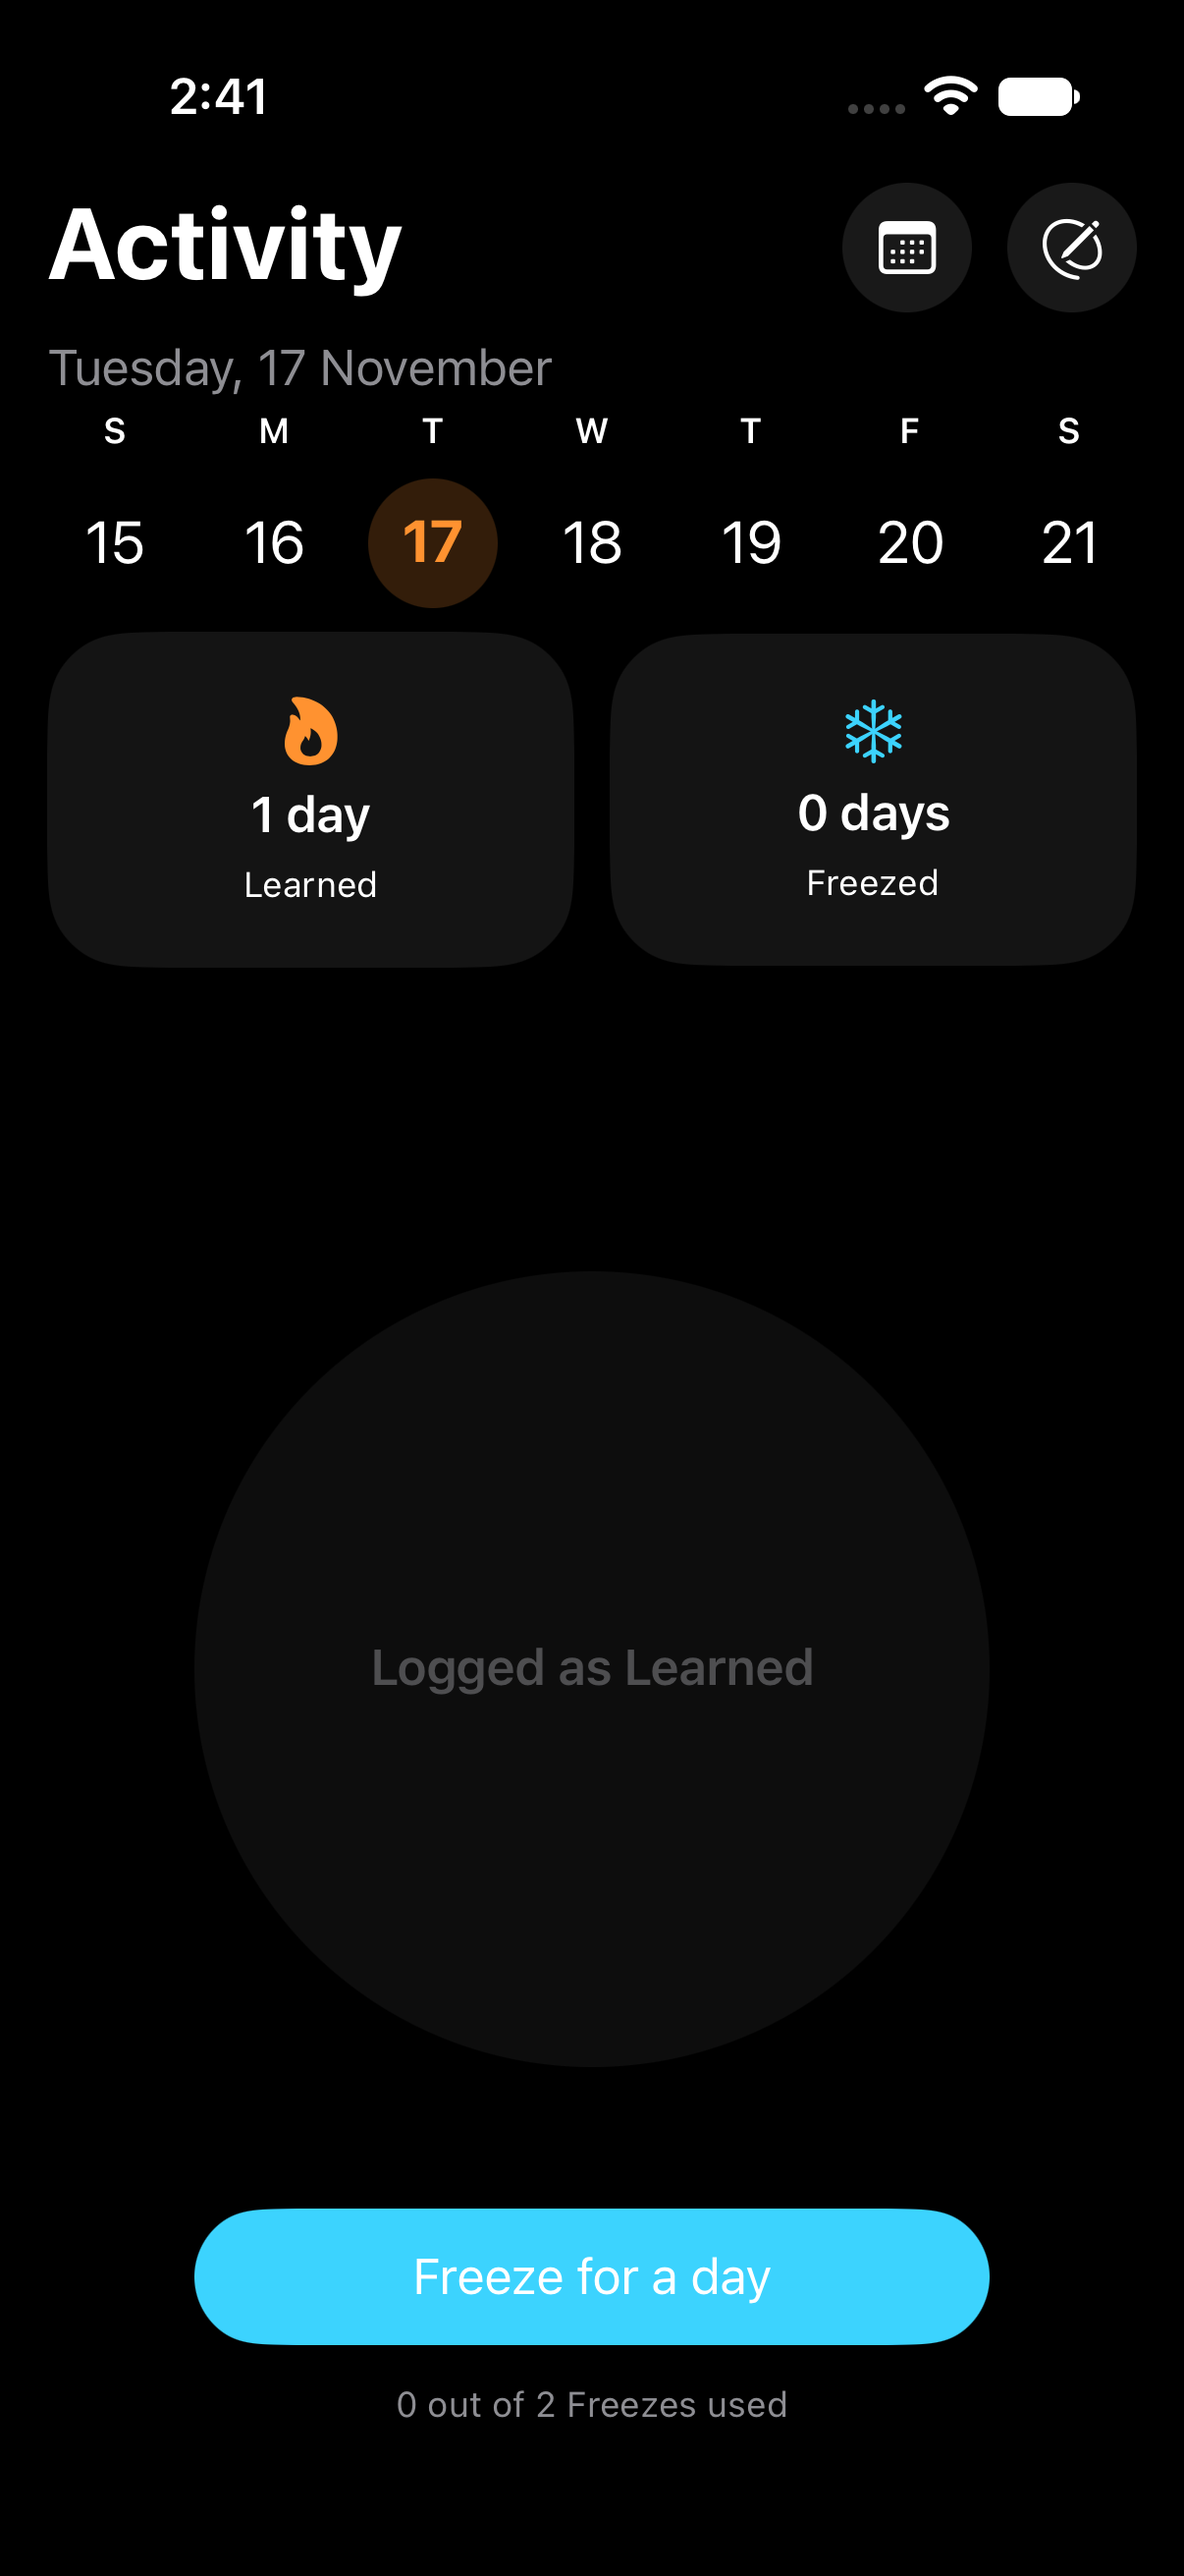
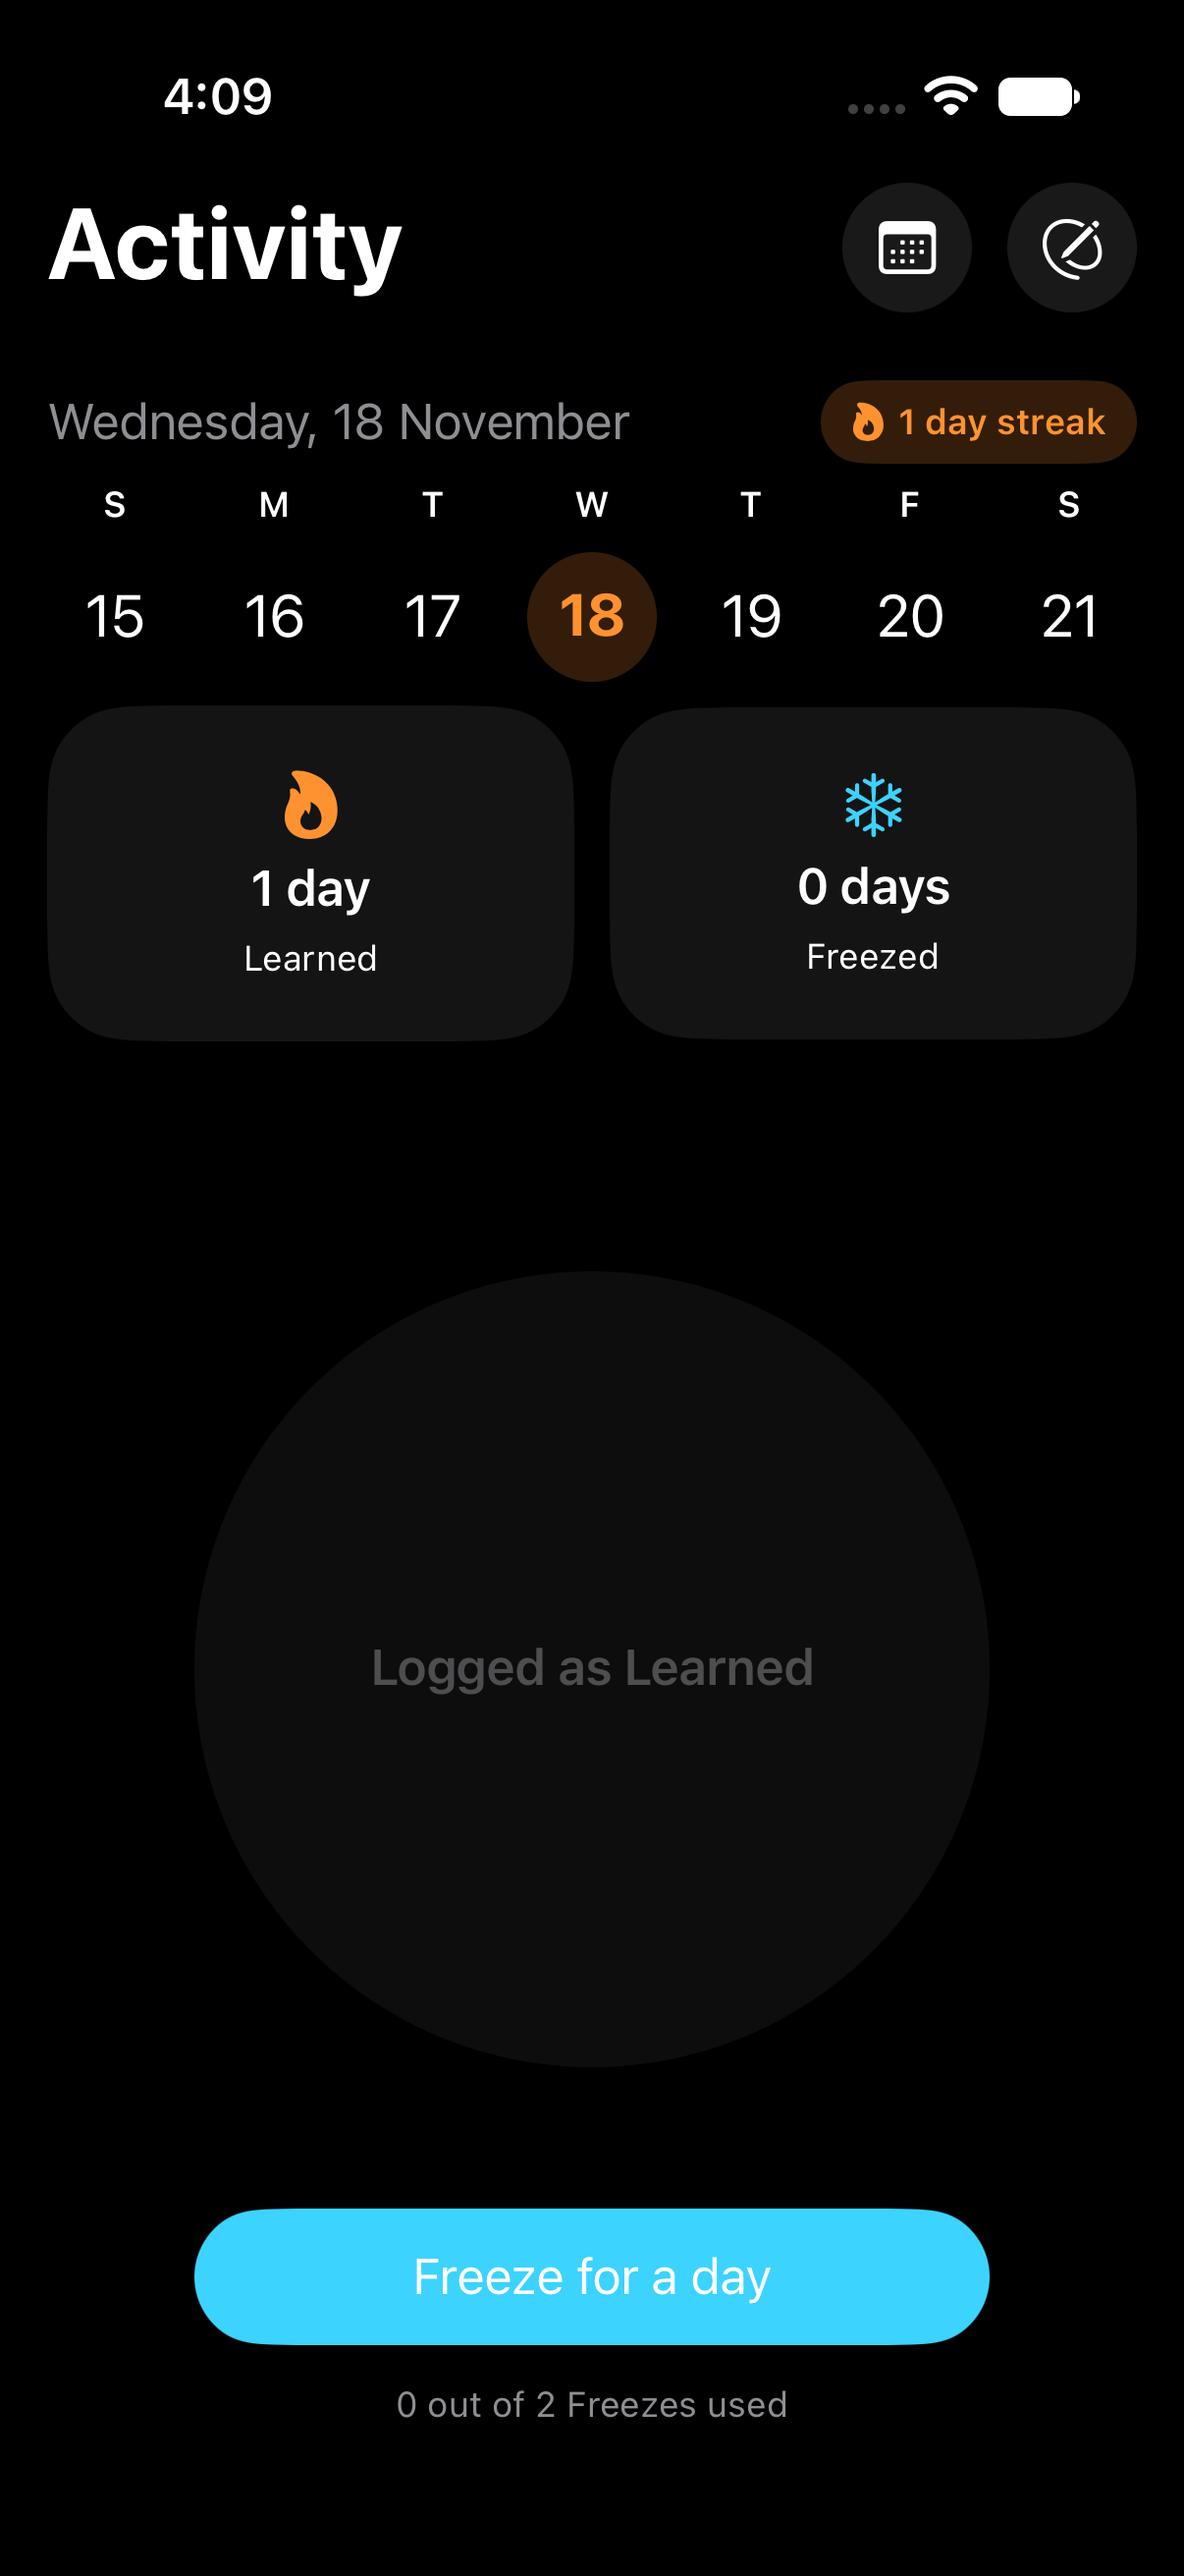
Replace screenshots with mockup in README

diff --git a/README.md b/README.md
@@ -2,28 +2,25 @@
 
 Learning Journey is a SwiftUI app that helps you build a daily learning habit. Set a goal, log each day as learned (or freeze a day when you need a break), and track your progress in a calendar.
 
+![Learning Journey mockup](Screenshots/mockup.png)
+
 ## Main features
 
 - **Set a goal:** choose what you want to learn and for how long (Week, Month, or Year).
 - **Log every day:** tap *Log as Learned*, or *Freeze for a day* if you can't study.
 - **Change your mind:** today can be switched between learned and frozen.
+- **Streak badge:** shows how many days in a row you have logged or frozen. The streak starts over if you go more than 32 hours without logging, or when you change your goal.
+- **Freeze limit:** 2 freezes for a Week goal, 8 for a Month goal, and 96 for a Year goal.
 - **Week strip:** this week at a glance. Learned days are orange, frozen days are blue.
 - **Counters:** how many days you learned and how many you froze.
 - **Calendar:** a view-only history of all your previous days.
-- **Goal result:** when the goal ends, the app tells you whether you completed it.
-- **Edit your goal:** change the topic or the length at any time (your counters start over).
+- **Goal result:** when the goal ends, the app tells you whether you completed it. Learned and frozen days both count, so you complete the goal if you didn't miss a day.
+- **Edit your goal:** change the topic or the length at any time (your counters and streak start over).
 - **Saved on your device:** close the app and come back to the same goal.
-
-## Screenshots
-
-| Set a goal | Activity |
-|---|---|
-| ![Set a goal](Screenshots/start-learning.png) | ![Activity](Screenshots/activity.png) |
 
 ## Technologies used
 
-- SwiftUI and the `@Observable` macro (iOS 17 or later)
+- SwiftUI and the `@Observable` macro (iOS 27)
 - **MVVM:** models hold the data, views only display it, and view models hold the logic
 - `Codable` and `UserDefaults` for saving (`GoalStore`)
-- An app icon made with Icon Composer
-
+- An app icon made with Icon Composer (light, dark and tinted)
